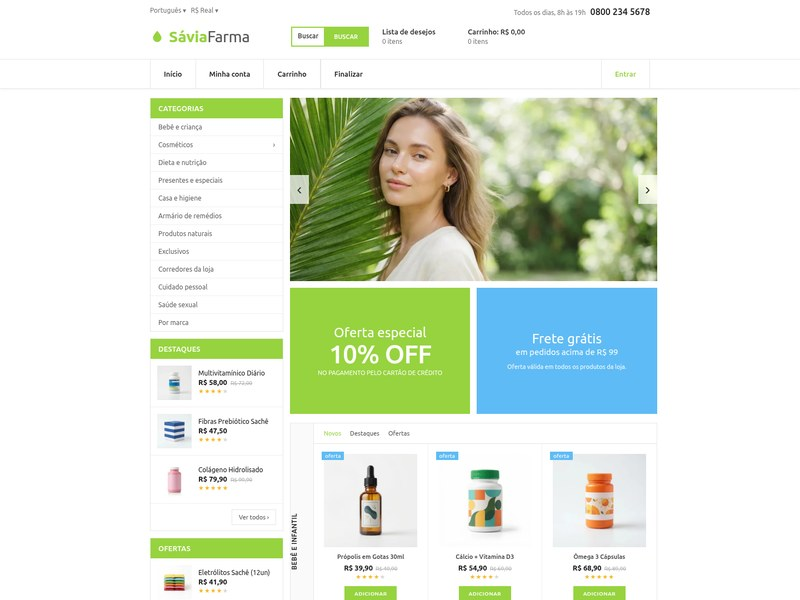
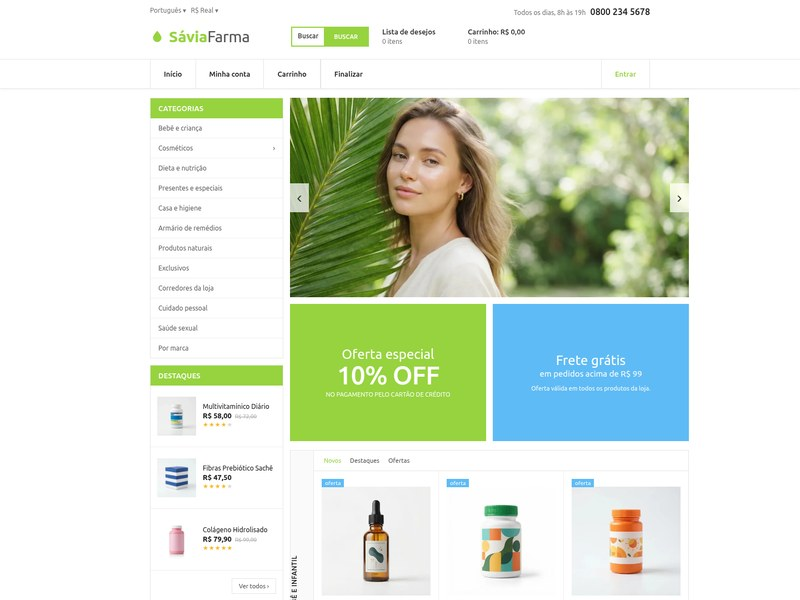
farmacia-savia: sidebar com mais respiro, cards de produto mais altos, rodape maior (altura do pin)

Changed region(s): [[0.1875, 0.15, 0.875, 1.0], [0.1875, 0.84, 0.375, 1.0], [0.1875, 0.75, 0.3438, 0.84]]

diff --git a/src/components/models/FarmaciaSaviaFold.tsx b/src/components/models/FarmaciaSaviaFold.tsx
@@ -99,7 +99,7 @@ export function FarmaciaSaviaFold({ client }: { client?: { name?: string; whatsa
         .fa .grid{display:grid;grid-template-columns:240px 1fr;gap:12px;margin-top:16px}
         .fa .box{border:1px solid ${LN};margin-bottom:12px}
         .fa .bh{background:${LIME};color:#fff;font-size:13px;font-weight:500;letter-spacing:.02em;padding:11px 14px;text-transform:uppercase}
-        .fa .ct a{display:flex;justify-content:space-between;padding:9px 14px;font-size:12px;color:#666;border-bottom:1px solid #f0f0f0;cursor:pointer}
+        .fa .ct a{display:flex;justify-content:space-between;padding:11px 14px;font-size:12px;color:#666;border-bottom:1px solid #f0f0f0;cursor:pointer}
         .fa .ct a:last-child{border:0}
         .fa .soc2{display:flex;gap:8px;margin:18px 0 6px}.fa .soc2 a{width:26px;height:26px;border-radius:50%;background:#96d33f;display:flex;align-items:center;justify-content:center}
         .fa .bn{position:relative;aspect-ratio:2/1;background-color:#fff}
@@ -109,21 +109,21 @@ export function FarmaciaSaviaFold({ client }: { client?: { name?: string; whatsa
         .fa .pm h3{font-size:24px;font-weight:400;line-height:1.1}
         .fa .pm h2{font-size:46px;font-weight:500;line-height:1.05;letter-spacing:-.02em}
         .fa .pm p{margin:4px 0 0;font-size:11px;opacity:.95}
-        .fa .sl{display:grid;grid-template-columns:62px 1fr;gap:12px;align-items:center;padding:12px;border-bottom:1px solid #f0f0f0;font-size:12px}
-        .fa .sl img{width:62px;height:62px;object-fit:contain}
+        .fa .sl{display:grid;grid-template-columns:70px 1fr;gap:12px;align-items:center;padding:20px 12px;border-bottom:1px solid #f0f0f0;font-size:12px}
+        .fa .sl img{width:70px;height:70px;object-fit:contain}
         .fa .sl span{display:block;margin-bottom:3px}.fa .sl b{font-weight:700;font-size:13px;margin-right:6px}
         .fa .sl s,.fa .pr s{color:#aaa;font-size:10px}
-        .fa .va{padding:10px 12px;text-align:right}.fa .va a{display:inline-block;border:1px solid ${LN};padding:7px 12px;font-size:11px;color:#555;cursor:pointer}
+        .fa .va{padding:14px 12px;text-align:right}.fa .va a{display:inline-block;border:1px solid ${LN};padding:7px 12px;font-size:11px;color:#555;cursor:pointer}
         .fa .stars{display:block;font-size:11px;letter-spacing:1px;margin-top:3px}.fa .stars i{font-style:normal}
-        .fa .row{display:grid;grid-template-columns:42px 1fr;border:1px solid ${LN};margin-bottom:14px}
+        .fa .row{display:grid;grid-template-columns:42px 1fr;border:1px solid ${LN};margin-bottom:22px}
         .fa .vt{writing-mode:vertical-rl;transform:rotate(180deg);text-align:center;font-weight:500;font-size:12px;text-transform:uppercase;letter-spacing:.04em;border-left:1px solid ${LN};background:#fafafa;padding:14px 0}
         .fa .tabs{display:flex;gap:16px;padding:12px 18px;border-bottom:1px solid ${LN};font-size:11px;color:#555}
         .fa .tabs b{font-weight:500;color:#222;cursor:pointer}.fa .tabs span{cursor:pointer}.fa .tabs .on{color:${LIME}}
         .fa .pcs{display:grid;grid-template-columns:repeat(3,1fr)}
-        .fa .pc{position:relative;padding:18px 14px 16px;text-align:center;border-right:1px solid #f0f0f0;font-size:11px}
+        .fa .pc{position:relative;padding:28px 14px 32px;text-align:center;border-right:1px solid #f0f0f0;font-size:11px}
         .fa .pc:last-child{border:0}
         .fa .sale{position:absolute;left:14px;top:14px;background:${BLUE};color:#fff;font-size:10px;padding:2px 6px;z-index:1}
-        .fa .pim{height:168px;display:flex;align-items:center;justify-content:center}.fa .pim img{max-height:168px;max-width:168px;object-fit:contain}
+        .fa .pim{height:196px;display:flex;align-items:center;justify-content:center}.fa .pim img{max-height:196px;max-width:196px;object-fit:contain}
         .fa .pc h4{font-size:11px;font-weight:500;color:#444;margin:10px 0 5px;line-height:1.35}
         .fa .pr b{font-size:13px;font-weight:700;margin-right:5px}
         .fa .add{margin:10px 0 8px;background:${LIME};color:#fff;border:0;padding:8px 18px;font:500 10px Ubuntu,system-ui,sans-serif;letter-spacing:.04em;text-transform:uppercase;cursor:pointer}
@@ -134,7 +134,7 @@ export function FarmaciaSaviaFold({ client }: { client?: { name?: string; whatsa
         .fa .bar .wrap{display:grid;grid-template-columns:repeat(3,1fr);gap:30px}
         .fa .bar h3{font-size:15px;font-weight:500;text-transform:uppercase;margin-bottom:8px;display:flex;align-items:center;gap:12px}
         .fa .bar p{margin:0;font-size:11px;line-height:1.55;opacity:.95}
-        .fa .ft{padding:34px 0 20px}
+        .fa .ft{padding:56px 0 40px}
         .fa .fg{display:grid;grid-template-columns:repeat(5,1fr);gap:24px;font-size:11px;color:#777}
         .fa .fg h4{font-size:12px;color:#222;font-weight:700;margin-bottom:14px}
         .fa .fg a{display:block;margin-bottom:9px;cursor:pointer}
